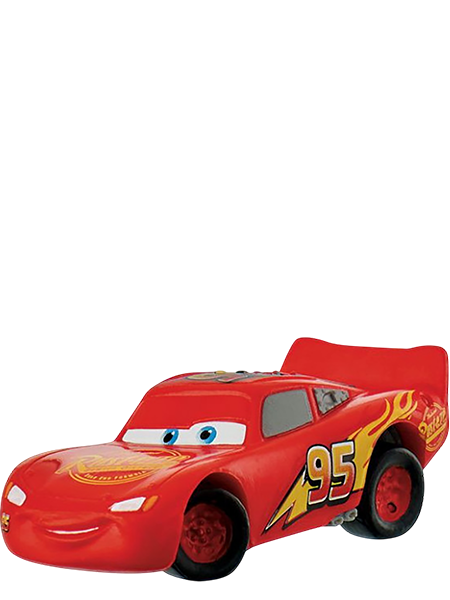
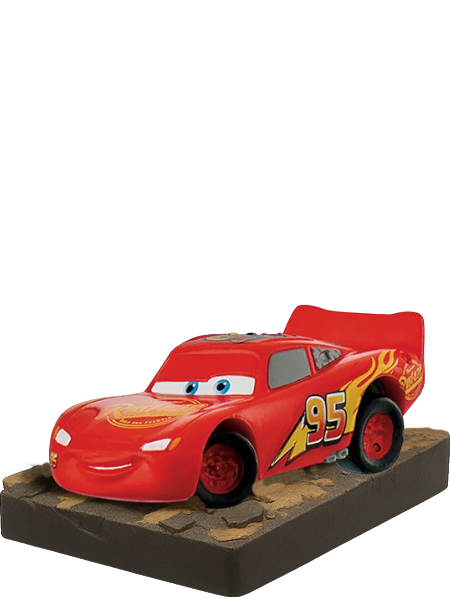
v3.0 add new figurines

diff --git a/README.md b/README.md
@@ -2,11 +2,11 @@
   
 <img width="2278" height="600" alt="background" src="https://github.com/user-attachments/assets/1a15e0c6-f3f1-47c3-a351-7187e9239bf4" />
   
-# Version 2.9 (2026 07 04)
+# Version 3.0 (2026 09 12)
 
 ## ![gb](https://github.com/Snapouille/es-theme-Animatics-DX-Music/assets/105559045/a1e80520-3bff-4ff7-9bbf-d96489424fc3)  
   
-This add-on gives you access to over 1735 figurines that will appear in the game carousel view of the Animatics-DX theme. The figurines are displayed either by family or by the name of the games in your gamelists. The directories are organized as follows:
+This add-on gives you access to over 1820 figurines that will appear in the game carousel view of the Animatics-DX theme. The figurines are displayed either by family or by the name of the games in your gamelists. The directories are organized as follows:
 
 **_inc\figurines\family**: for figurines categorized by family  
 **_inc\figurines\gameName**: for figurines categorized by game name
@@ -24,7 +24,7 @@ This pack will be regularly updated. If you want to help, you can check the Goog
   
 ## ![fr](https://github.com/Snapouille/es-theme-Animatics-DX-Music/assets/105559045/c889ac90-f68b-4008-80ff-7d1903eed8eb)  
 
-Cet add-on vous donne accès à plus de 1735 figurines qui s'afficheront dans la vue gamecarousel du thème Animatics-DX. Les figurines sont affichées soit par famille, soit par nom des jeux de vos gamelists. Les répertoires sont organisés comme suit :
+Cet add-on vous donne accès à plus de 1820 figurines qui s'afficheront dans la vue gamecarousel du thème Animatics-DX. Les figurines sont affichées soit par famille, soit par nom des jeux de vos gamelists. Les répertoires sont organisés comme suit :
 
 **_inc\figurines\family** : pour les figurines classées par famille  
 **_inc\figurines\gameName** : pour les figurines classées par nom de jeu
@@ -81,3 +81,4 @@ V 2.6 - (2026 04 24) - Add 017 figurines 	(Myos)
 V 2.7 - (2026 05 24) - Add 011 figurines 	(Snapouille)   
 V 2.8 - (2026 06 07) - Add 023 figurines 	(Snapouille)   
 V 2.9 - (2026 07 04) - Add 019 figurines 	(Snapouille)   
+V 3.0 - (2026 09 12) - Add 086 figurines 	(Myos)   
